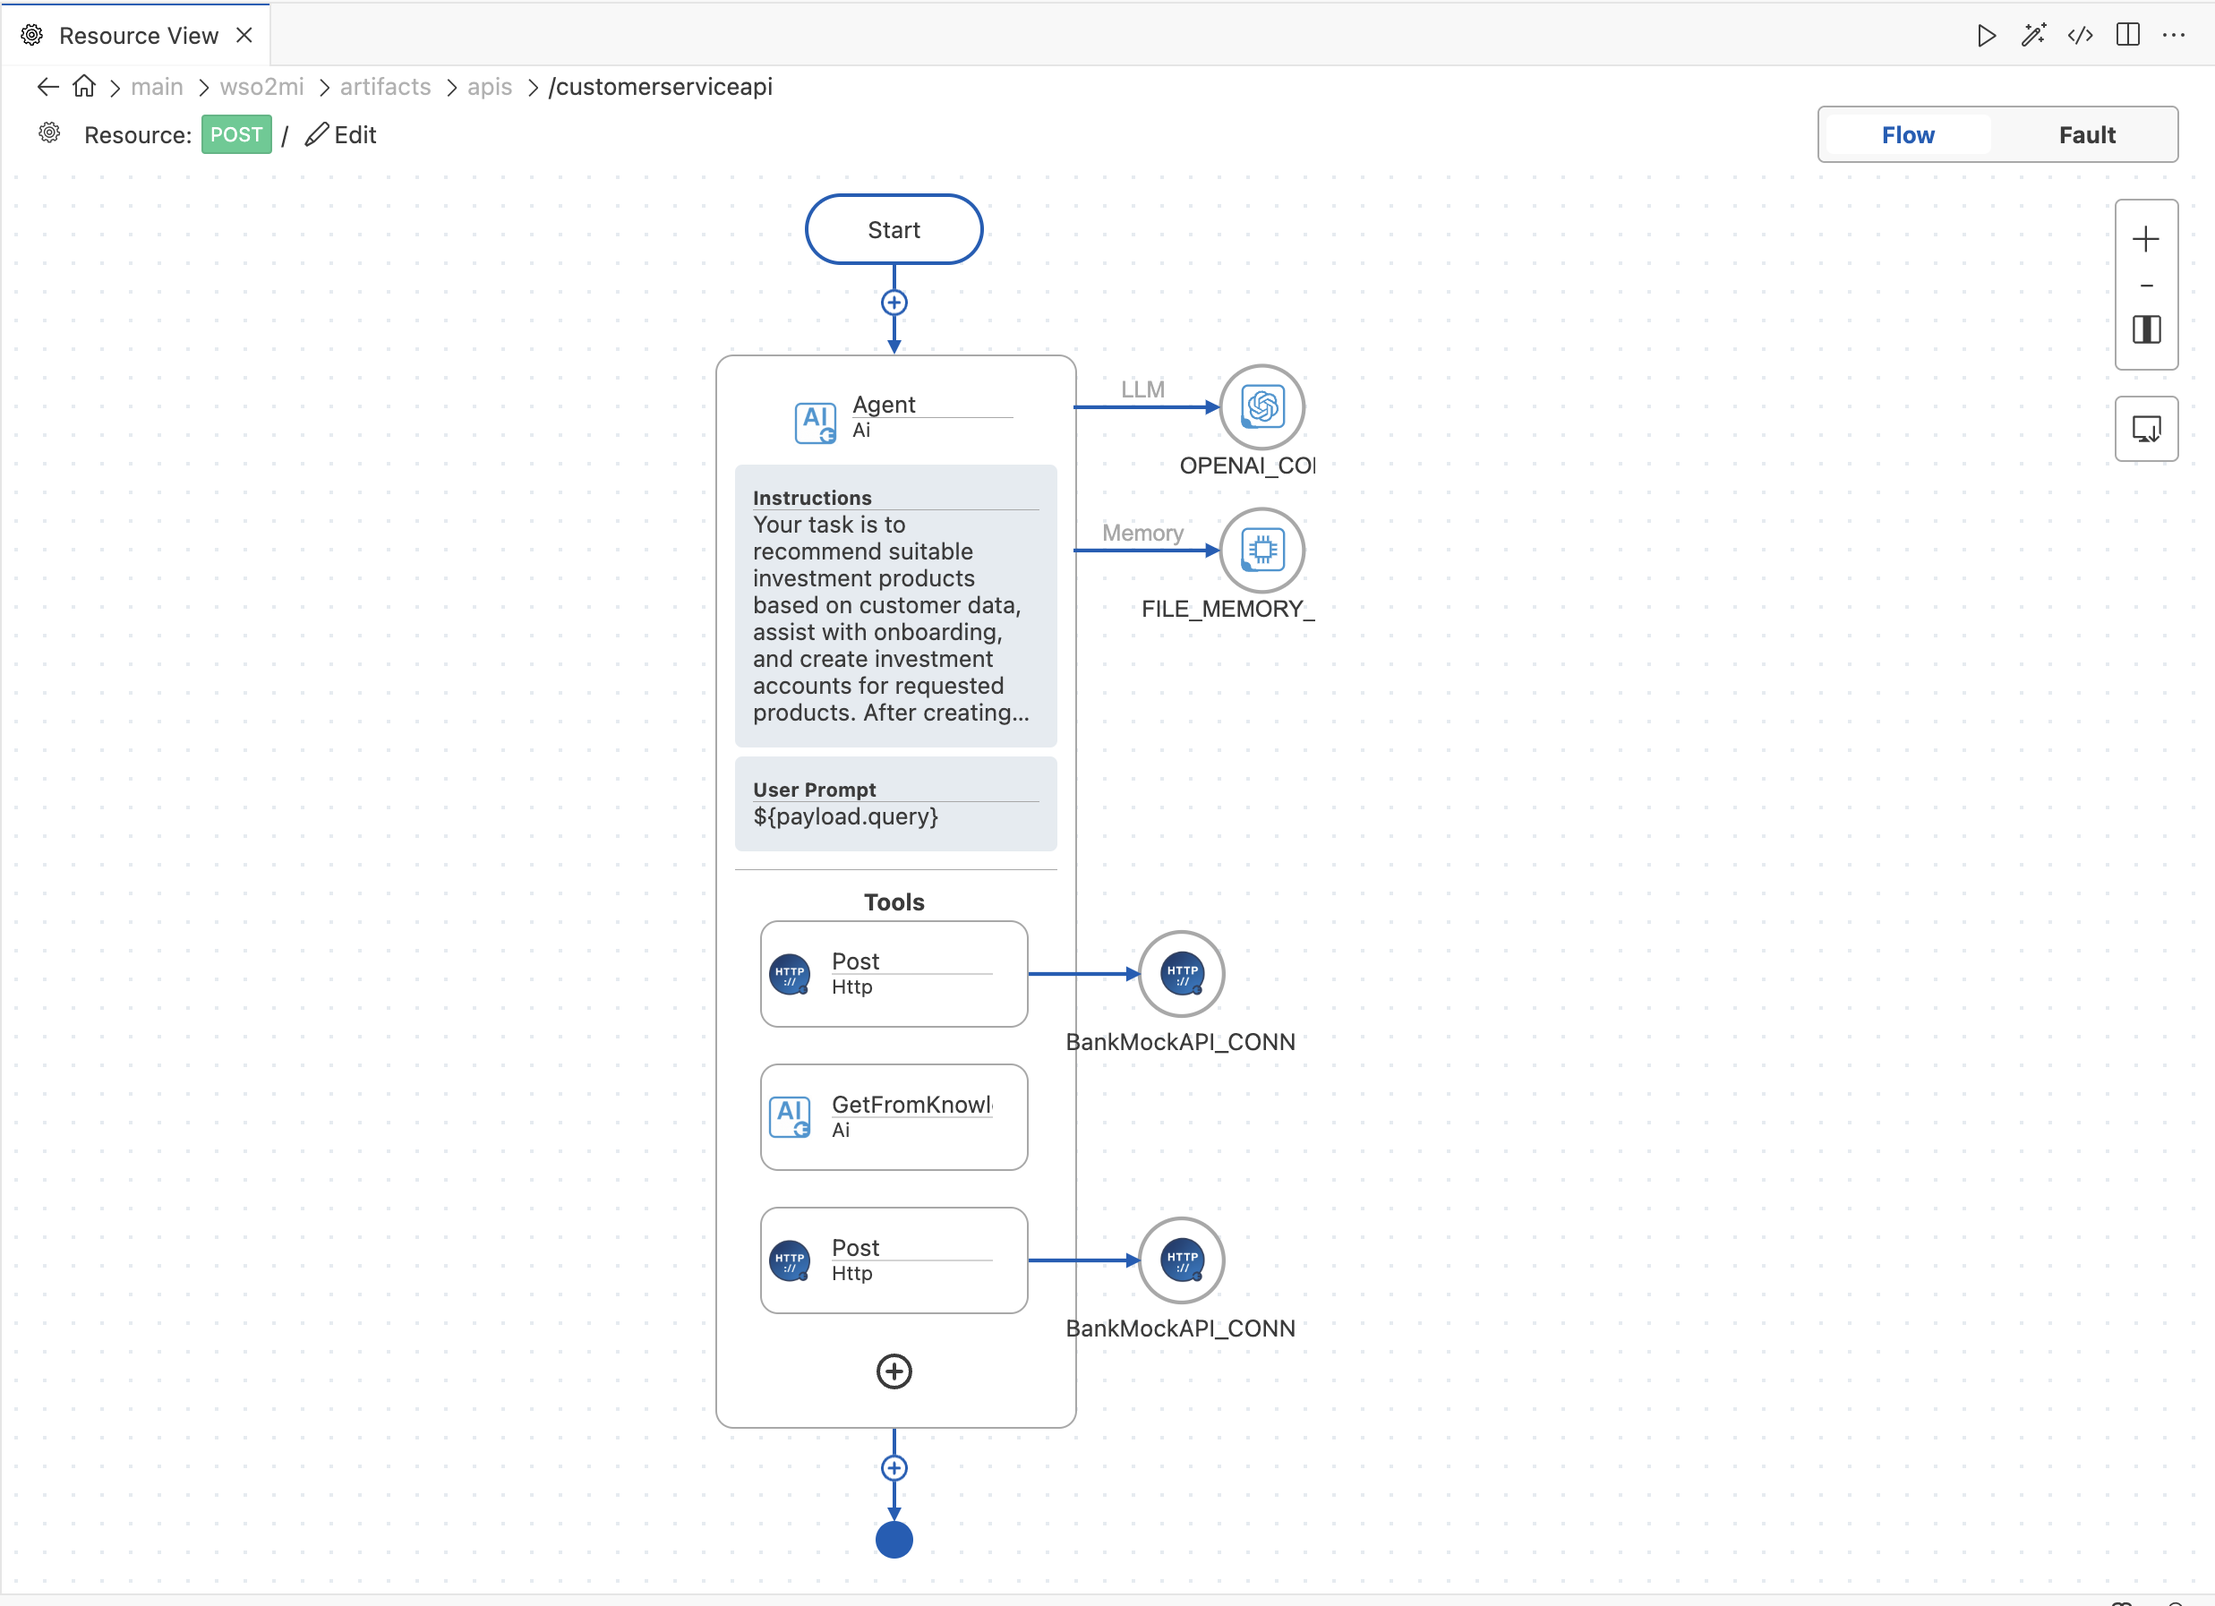
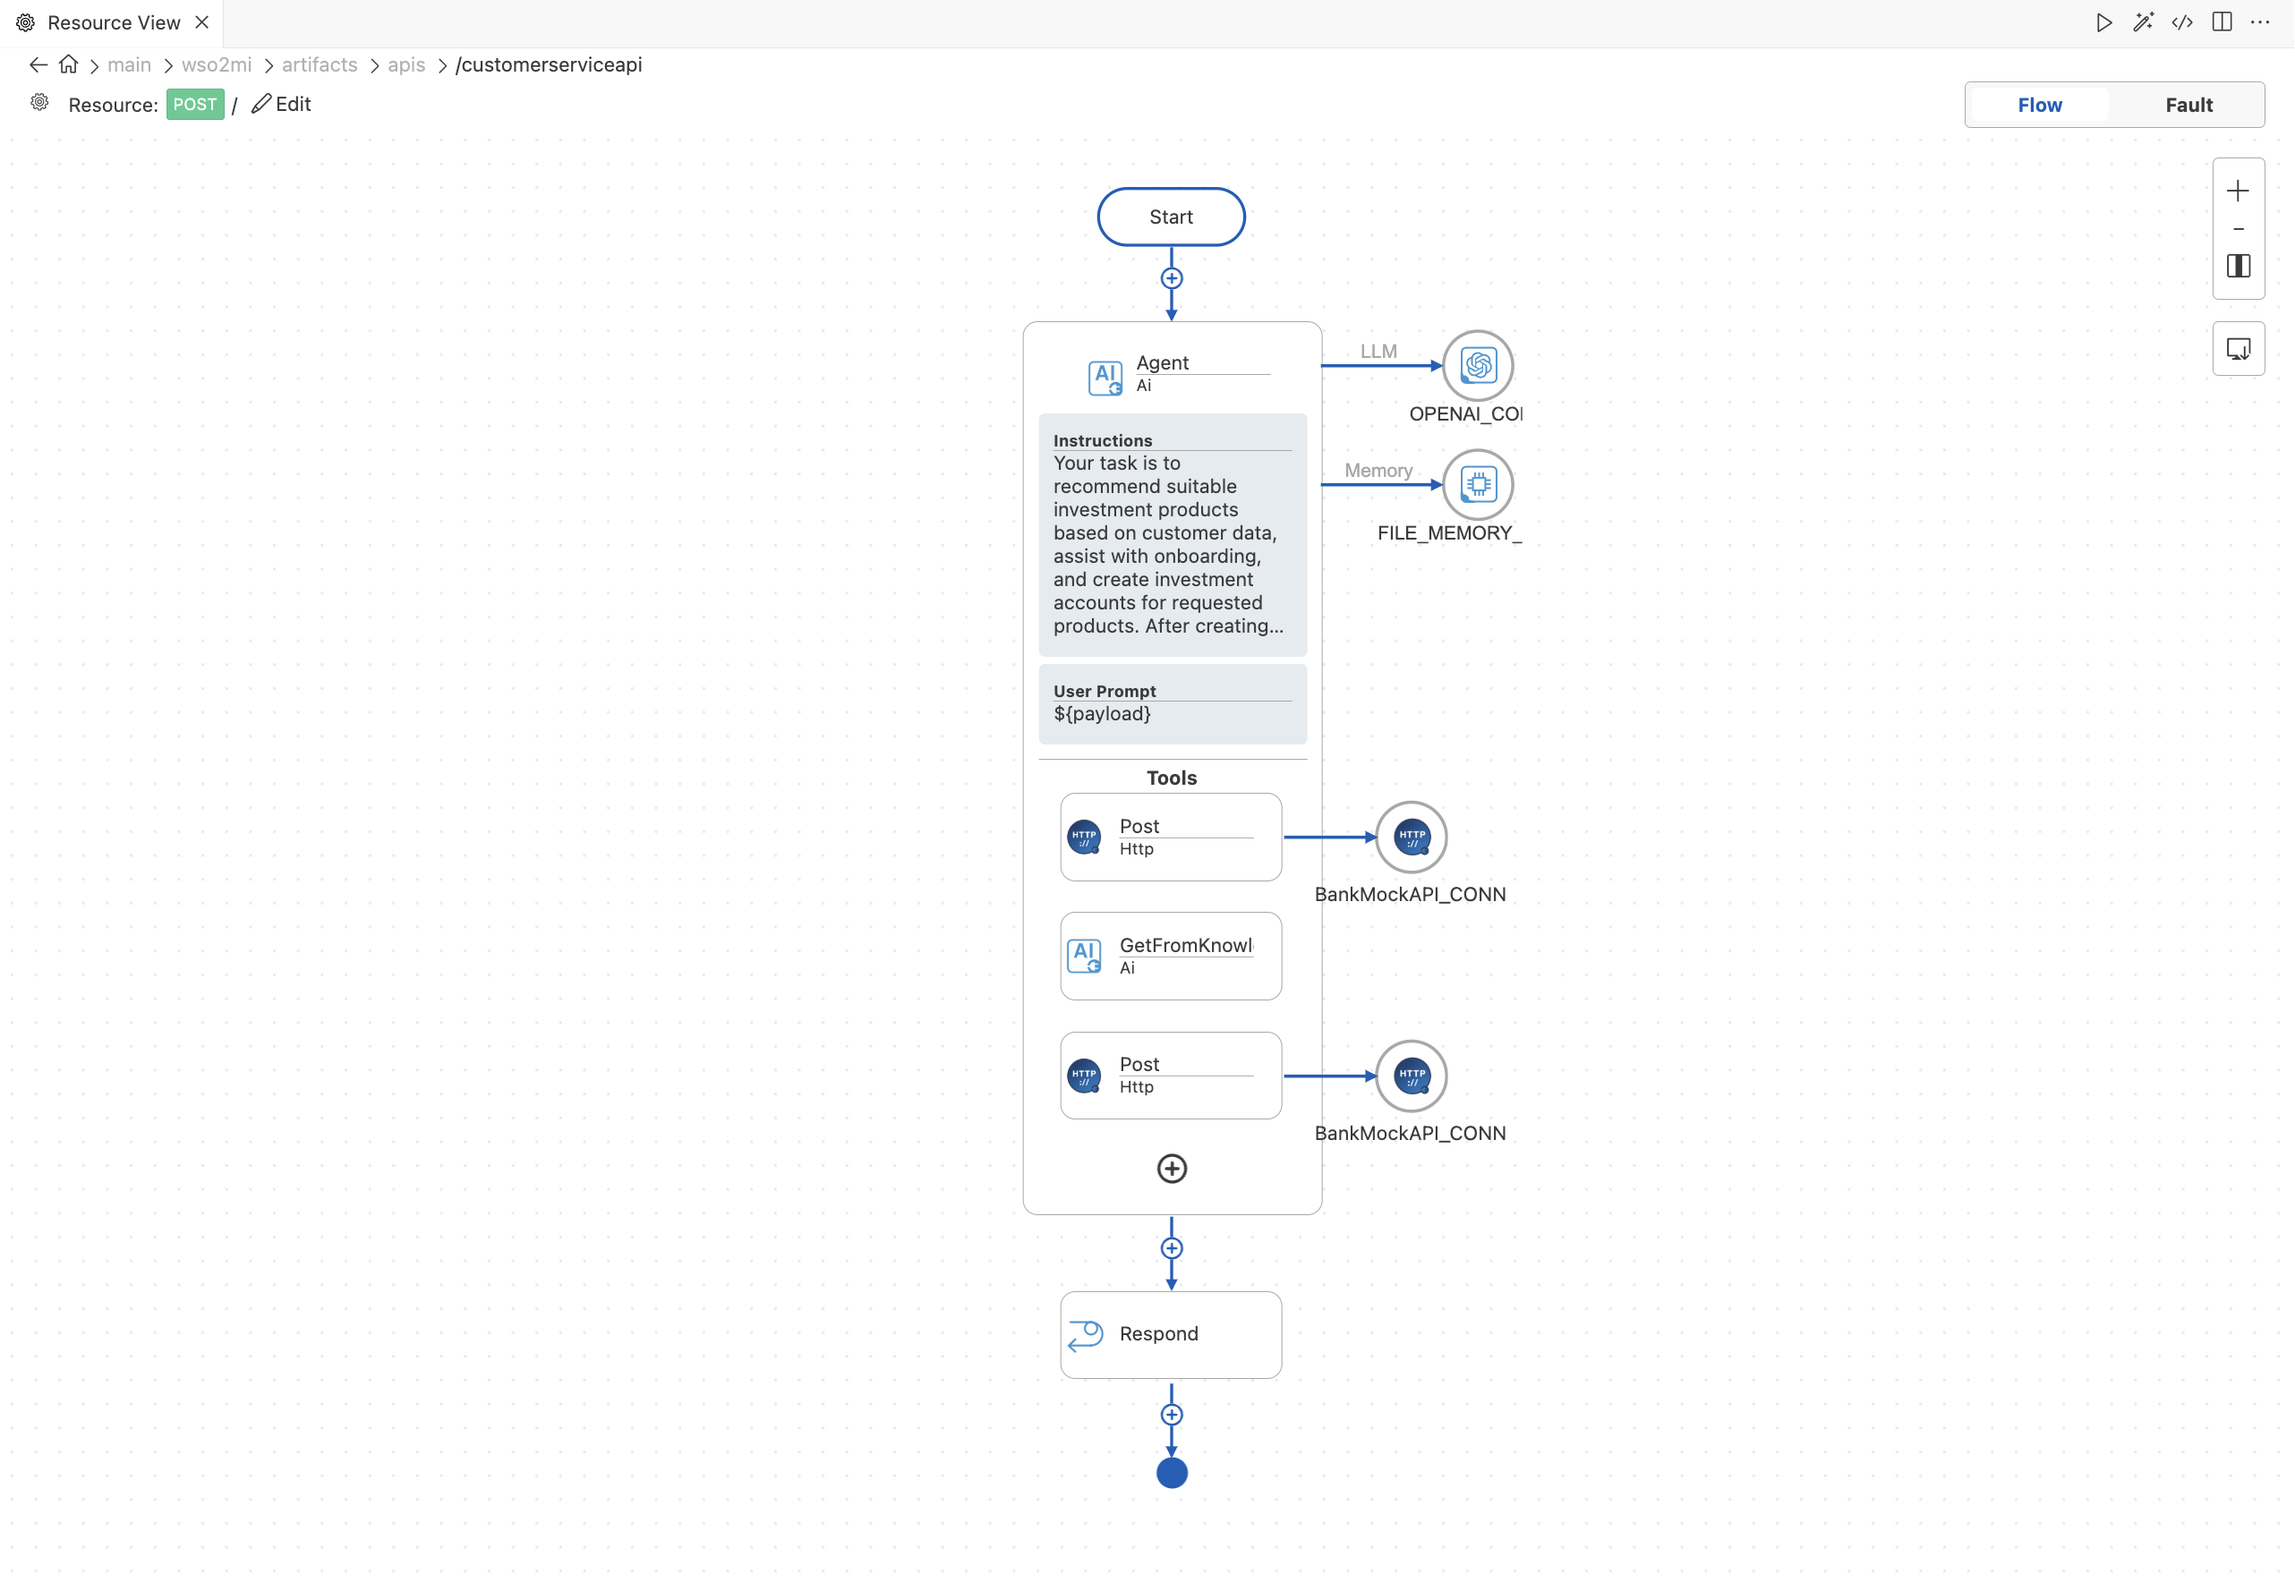
Fix issues in AI module tutorial

diff --git a/en/docs/get-started/build-first-ai-integration/first-integration-ai-chatbot.md b/en/docs/get-started/build-first-ai-integration/first-integration-ai-chatbot.md
@@ -168,15 +168,24 @@ Now it is time to design your API. This is the underlying logic that's executed 
 
     <a href="{{base_path}}/assets/img/get-started/build-first-ai-integration/chatbot/add_file_memory.gif"><img src="{{base_path}}/assets/img/get-started/build-first-ai-integration/chatbot/add_file_memory.gif" alt="Set Chat Operation Payload" width="80%"></a>
 
-12. Now, we shall complete the **Chat** operation configuration by filling the `User Query/Prompt` field with the payload value.
+12. Now, we shall complete the **Chat** operation configuration by filling the `User Query/Prompt` field with the payload value.  
 
+    Here, we will use the `query` value from the request payload as the user query for the Chat operation. Follow these steps to set it up:
+
+    1. Click the **fx** icon next to the **User Query/Prompt** field to open the **Expression Editor**.
+    2. In the **Expression Editor**, choose **Payload** and select the `query` field.
+    3. Click **Add** to insert the expression into the field.
+
+13. Next, enable the **Overwrite Body** option to ensure the API response body is replaced with the AI's output.  
+    Otherwise, we need to manually set the response body using the [Payload Mediator]({{base_path}}/reference/mediators/payloadfactory-mediator/).
+      
     <a href="{{base_path}}/assets/img/get-started/build-first-ai-integration/chatbot/complete_chat_operation.gif"><img src="{{base_path}}/assets/img/get-started/build-first-ai-integration/chatbot/complete_chat_operation.gif" alt="Set Chat Operation Payload" width="80%"></a>
 
-    Now let us add a [Respond Mediator]({{base_path}}/reference/mediators/respond-mediator) to respond the message to the client.
+    Next, add a [Respond Mediator]({{base_path}}/reference/mediators/respond-mediator) to send the AI's response back to the client.
 
-15. Click on the **+** icon placed just after the Chat operation to open the **Mediator Palette**.
+14. Click on the **+** icon placed just after the Chat operation to open the **Mediator Palette**.
 
-7. Select the **Respond** mediator from the **Mediator Palette**, and click **Add** to add it to the integration flow.
+15. Select the **Respond** mediator from the **Mediator Palette**, and click **Add** to add it to the integration flow.
 
     <a href="{{base_path}}/assets/img/get-started/build-first-ai-integration/chatbot/select_respond_mediator.png"><img src="{{base_path}}/assets/img/get-started/build-first-ai-integration/chatbot/select_respond_mediator.png" alt="Create New Project" width="80%"></a>
 

diff --git a/en/docs/get-started/build-first-ai-integration/first-integration-knowledge-base.md b/en/docs/get-started/build-first-ai-integration/first-integration-knowledge-base.md
@@ -85,9 +85,9 @@ Follow the steps below to design these operations.
 
     <a href="{{base_path}}/assets/img/get-started/build-first-ai-integration/knowledge-base/click_add_mediator.png"><img src="{{base_path}}/assets/img/get-started/build-first-ai-integration/knowledge-base/click_add_mediator.png" alt="Create New Project" width="80%"></a>
 
-6. Under **Mediators**, select the **+ Add Module**.
+6. Under **Mediators**, go to **AI** section and select the **Add to Knowledge** operation.
 
-    <a href="{{base_path}}/assets/img/get-started/build-first-ai-integration/knowledge-base/click_add_module.png"><img src="{{base_path}}/assets/img/get-started/build-first-ai-integration/knowledge-base/click_add_module.png" alt="Create New Project" width="80%"></a>
+    <a href="{{base_path}}/assets/img/get-started/build-first-ai-integration/knowledge-base/select_addToKnowledgeBase_operation.png"><img src="{{base_path}}/assets/img/get-started/build-first-ai-integration/knowledge-base/select_addToKnowledgeBase_operation.png" alt="Create New Project" width="80%"></a>
 
 7. Select the **+ Add new connection** in the **Vector Store Connection** field.
 
@@ -119,7 +119,10 @@ Follow the steps below to design these operations.
     4. Enter your **API Key** in the designated field.  
     5. Click **Add** to finalize and store the connection.   
 
-11. Now, we shall complete the **Add To Knowledge** operation configuration by filling the `Input` field and disabling the `Parse`.
+11. Now, we shall complete the **Add To Knowledge** operation configuration by filling the `Input` field and disabling the `Parse`.  
+
+    !!! note
+        Enable parsing only when the input is an encoded string. If you are sending plain text content, you can safely disable the `Parse` option.
 
     <a href="{{base_path}}/assets/img/get-started/build-first-ai-integration/knowledge-base/add_addToKnowledge_operation.gif"><img src="{{base_path}}/assets/img/get-started/build-first-ai-integration/knowledge-base/add_addToKnowledge_operation.gif" alt="Set Chat Operation Payload" width="80%"></a>
 

diff --git a/en/docs/get-started/build-first-ai-integration/first-integration-ai-agent.md b/en/docs/get-started/build-first-ai-integration/first-integration-ai-agent.md
@@ -99,7 +99,7 @@ To develop the above scenario, let's get started with creating a new API in the 
 
     Ensure all interactions are professional, accurate, and regulatory-compliant.
     ```  
-    **User Query/Prompt**: `${payload}`  
+    **User Query/Prompt**: `${payload}`  *(Tip: Click the `fx` icon next to the `User Query/Prompt` field, select **Payload** from the expression panel, choose `payload`, and click **Add** to insert this expression.)*  
     **Overwrite Message Body**: `true`
 
     <a href="{{base_path}}/assets/img/get-started/build-first-ai-integration/agent/add_agent_operation.gif"><img src="{{base_path}}/assets/img/get-started/build-first-ai-integration/agent/add_agent_operation.gif" alt="Create New Project" width="80%"></a>
@@ -160,7 +160,9 @@ To develop the above scenario, let's get started with creating a new API in the 
         "status": "Pending Approval"
         }
         ```  
+
     11. Click **Add** to add the payload to the integration flow.  
+
     12. Now, we need to add a **Respond** mediator to respond to the client.
 
     Now that we have created the mock API to create investment accounts, let's proceed to add the tools to the agent.
@@ -313,6 +315,7 @@ For reference, you can review the configured API.
                             <tool name="InvestmentCreationTool" template="http_post_tool_2" resultExpression="${vars.http_post_809.payload}" description="Create investment account for the customer"/>
                         </tools>
                     </ai.agent>
+                    <respond/>
                 </inSequence>
                 <faultSequence>
                 </faultSequence>

diff --git a/en/docs/reference/connectors/ai-module/ai-module-reference.md b/en/docs/reference/connectors/ai-module/ai-module-reference.md
@@ -390,7 +390,7 @@ The WSO2 MI Generative AI Module supports multiple chat memory providers.
     Postgres DB is a powerful, open-source relational database that can be used as a chat memory provider for managing chat history.
 
 - **File Memory**  
-    File memory is a simple file-based storage solution for managing chat history which will persist the data in the MI resources.
+    File memory is a simple file-based storage solution for managing chat history. It persists chat data within the MI resources, storing the memory file at `<MI_SERVER_HOME>/registry/governance/ai/chat-memory/<CONNECTION_NAME>.json`.
 
     !!! info
         File memory is designed specifically for testing purposes and is not recommended for production use. Please use other chat memory providers for production scenarios.
